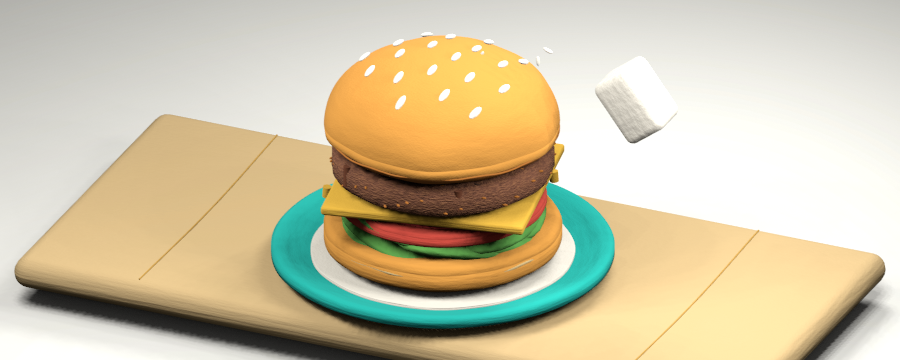
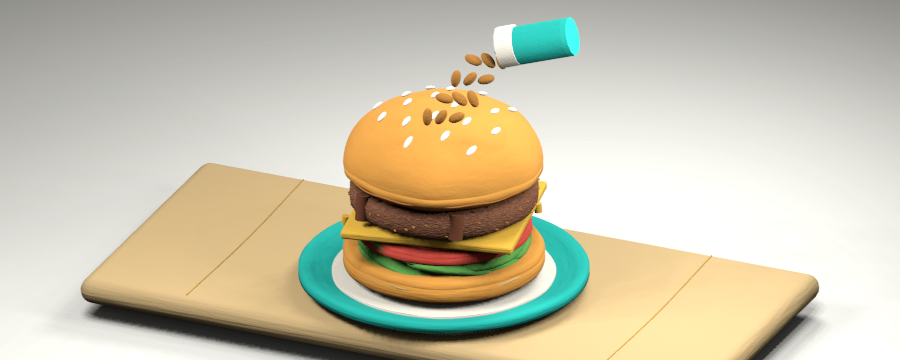
Make the clay sauce pour and falling sesame readable at small sizes

diff --git a/video-pipeline/pilot/burger/clay/sculpt_episode.py b/video-pipeline/pilot/burger/clay/sculpt_episode.py
@@ -20,7 +20,7 @@ os.makedirs(OUT,exist_ok=True)
 def setup():
     M=parts.setup()
     for key,color in {'soil':'8F6543','grass':'86B96E','stem':'3E8750','leaf':'65AE50','tomato':'D94D3E',
-                      'cow':'B98860','hoof':'554337','sauce':'754027','milk':'FFF5DE','cheese':'F1BE42'}.items():
+                      'cow':'B98860','hoof':'554337','sauce':'754027','sesame':'B77B33','milk':'FFF5DE','cheese':'F1BE42'}.items():
         M[key]=parts.material(key,color)
     M['raw-beef']=parts.meat_material(); M['cooked-beef']=parts.meat_material(True)
     scene=bpy.context.scene
@@ -214,9 +214,9 @@ def burger(M,layers=6,pose=0,sauce=False,open_top=False):
     if layers>=5:
         parts.meat_disk((0,-.18,1.07),1.10,.34,M,True)
         if sauce:
-            rope('Bulgogi sauce ribbon',[(-.88,-.50,1.43),(-.55,.12,1.44),(-.18,-.54,1.44),(.20,.15,1.44),(.54,-.53,1.44),(.87,.05,1.44)],.050,M['sauce'])
+            rope('Bulgogi sauce ribbon',[(-.88,-.50,1.46),(-.55,.12,1.47),(-.18,-.54,1.47),(.20,.15,1.47),(.54,-.53,1.47),(.87,.05,1.47)],.105,M['sauce'])
             for x,y in [(-.65,-1.03),(.56,-1.08)]:
-                rope('Thick sauce drip',[(x,y,1.40),(x,y-.01,1.19)],.045,M['sauce'])
+                rope('Thick sauce drip',[(x,y,1.43),(x,y-.04,1.13)],.085,M['sauce'])
     if layers>=6 and not open_top:
         parts.bun(0,-.18,1.45,M,1.04,True)
 
@@ -239,19 +239,32 @@ def finish(M,pose,title=False):
         stalk(M,-2.62,-.57,.98,False,pose)
 
 def twist(M,pose,sprinkle=False):
+    camera=bpy.context.scene.camera
+    camera.data.ortho_scale=10.5
+    camera.rotation_euler=(Vector((0,0,1.3))-camera.location).to_track_quat('-Z','Y').to_euler()
     burger(M,6 if sprinkle else 5,pose,True,open_top=not sprinkle)
     if not sprinkle:
         x=-.70+pose*.44
-        lathe('Bulgogi sauce bottle',(2.36,.28,.13),[(0,0),(0,.30),(.10,.35),(.91,.35),(1.12,.14),(1.31,.12),(1.31,0)],M['sauce'],segments=64)
-        puck('Bottle cap',(2.36,.28,1.49),.18,.14,M['cream'])
-        rope('Visible sauce pour',[(x,.15,2.22),(x+.07,.10,1.88),(x+.04,.01,1.43)],.047,M['sauce'])
-        rod('Squeeze nozzle',(x-.36,.19,2.28),(x,.15,2.22),.11,M['orange'])
+        rod('Tilted bulgogi bottle',(x-.90,.19,2.77),(x-.35,.01,2.45),.25,M['sauce'])
+        rod('Bottle label band',(x-.74,.14,2.68),(x-.51,.07,2.54),.255,M['cream'])
+        rod('Squeeze bottle neck',(x-.35,.01,2.45),(x-.08,-.07,2.25),.15,M['orange'])
+        rod('Squeeze nozzle',(x-.08,-.07,2.25),(x+.02,-.11,2.16),.11,M['cream'])
+        rope('Visible thick sauce pour',[(x+.02,-.11,2.17),(x+.10,-.22,1.84),(x+.06,-.39,1.47)],.12,M['sauce'])
+        ball('Sauce landing pool',(x+.06,-.39,1.48),(.29,.24,.06),M['sauce'],pose)
     else:
-        shaker=block('Sesame shaker',(1.97,.1,2.14),(.48,.48,.70),M['cream'],.08)
-        shaker.rotation_euler[1]=-.65
-        for j in range(8):
-            x=.30+(j%4)*.24; y=-.16+(j//4)*.25; z=2.50-((j+pose)%4)*.20
-            seed=ball('Falling sesame',(x,y,z),(.054,.025,.018),M['cream'],j); seed.rotation_euler[1]=j*.5
+        # A tipped jar and a front-facing trail keep the action readable at 320px.
+        # Dark golden seeds contrast with the white set; the bun cannot hide them.
+        rod('Tipped sesame jar',(1.02,-.55,3.45),(1.75,-.43,3.67),.23,M['teal'])
+        rod('Perforated shaker lid',(.90,-.58,3.43),(1.10,-.54,3.49),.245,M['cream'])
+        for j in range(3):
+            ball('Shaker lid hole',(.878,-.66+j*.07,3.40+j*.035),(.018,.027,.022),M['dark'],j)
+        for j in range(12):
+            row,col=divmod(j,3)
+            x=.78-row*.14+(col-1)*.16+.025*math.sin(pose+j)
+            y=-.72-row*.10+(col-1)*.06
+            z=3.35-row*.23-pose*.045
+            seed=ball('Large falling sesame',(x,y,z),(.11,.065,.055),M['sesame'],j)
+            seed.rotation_euler[1]=j*.5+pose*.25
 
 GROUPS=[
     ('title',lambda M,p:finish(M,p,True),2),
